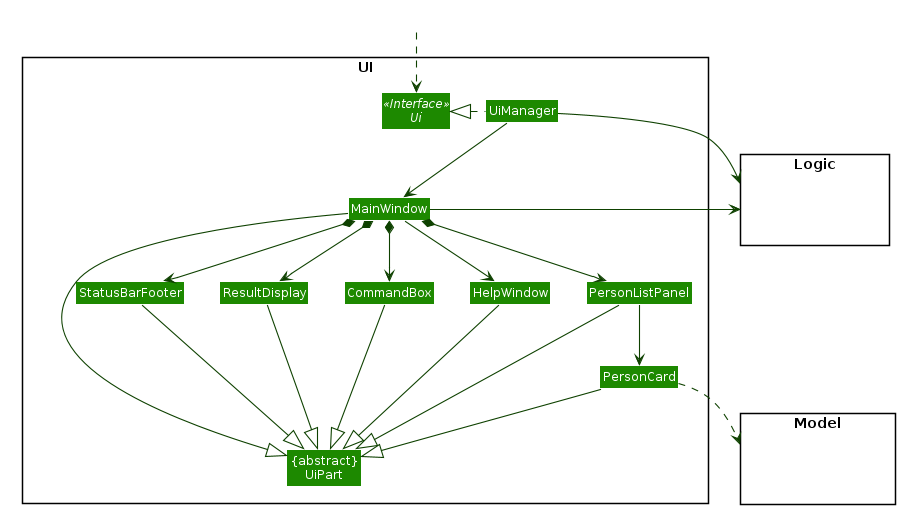
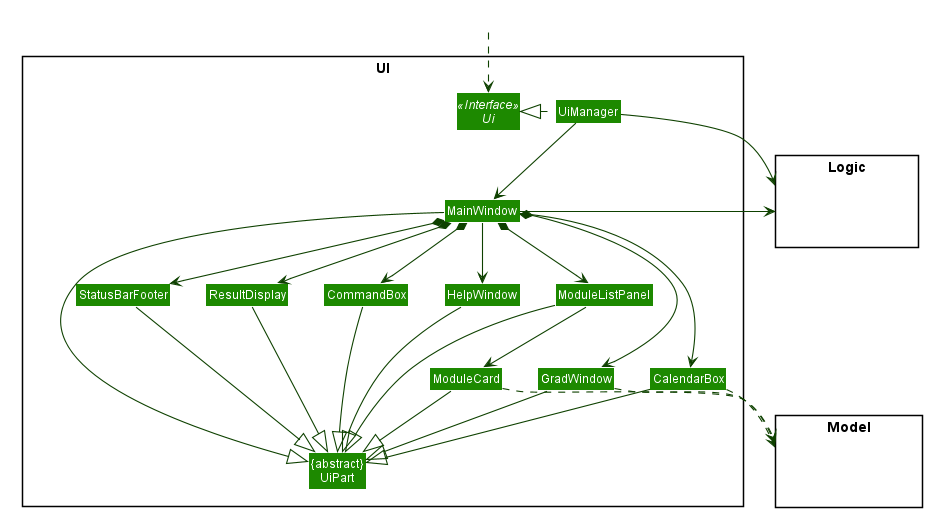
Added in picture, modified grad window

diff --git a/src/main/java/seedu/planner/ui/GradWindow.java b/src/main/java/seedu/planner/ui/GradWindow.java
@@ -27,26 +27,29 @@ public class GradWindow extends UiPart<Region> {
 
     public GradWindow(ReadOnlyPlanner planner) {
         super(FXML);
+        setGrad(planner);
+    }
+
+    public void setGrad(ReadOnlyPlanner planner) {
         if (planner.getStudentList().size() == 0) {
             graduationStatus.setText("No Active Student Detected");
         } else {
-            Student firstStudent = planner.getStudentList().get(0);
+            Student activeStudent = planner.getActiveStudent();
             graduationStatus.setStyle("-fx-font: 24 arial; -fx-text-fill: white;");
-            graduationStatus.setText("Graduation Requirement for " + firstStudent.getName());
-            List<GraduationRequirement> gradRequire = firstStudent.getMajor().getGraduationRequirements();
+            graduationStatus.setText("Graduation Requirement for " + activeStudent.getName());
+            List<GraduationRequirement> gradRequire = activeStudent.getMajor().getGraduationRequirements();
             StringBuffer sb = new StringBuffer();
             boolean isFirst = true;
             for (GraduationRequirement graduationRequirement : gradRequire) {
                 if (!isFirst) {
                     sb.append("\n");
                 }
-                sb.append(graduationRequirement.getString(firstStudent.getAllEnrolledModules()));
+                sb.append(graduationRequirement.getString(activeStudent.getAllEnrolledModules()));
             }
             info.setStyle("-fx-font: 16 arial; -fx-text-fill: white;");
             info.setText(sb.toString());
 
         }
-
     }
 
     /**

diff --git a/src/main/java/seedu/planner/ui/MainWindow.java b/src/main/java/seedu/planner/ui/MainWindow.java
@@ -206,7 +206,7 @@ public class MainWindow extends UiPart<Stage> {
             CommandResult commandResult = logic.execute(commandText);
             logger.info("Result: " + commandResult.getFeedbackToUser());
             resultDisplay.setFeedbackToUser(commandResult.getFeedbackToUser());
-
+            gradWindow.setGrad(logic.getPlanner());
             if (commandResult.isShowHelp()) {
                 handleHelp();
             }
